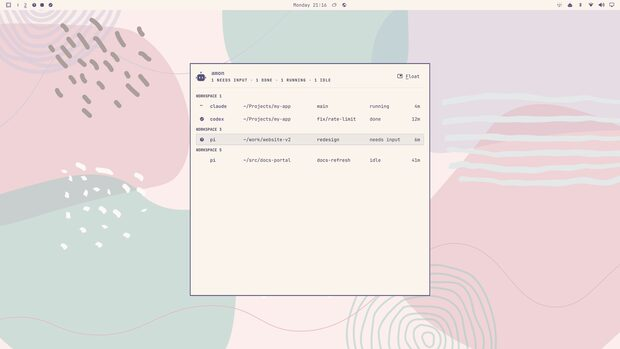
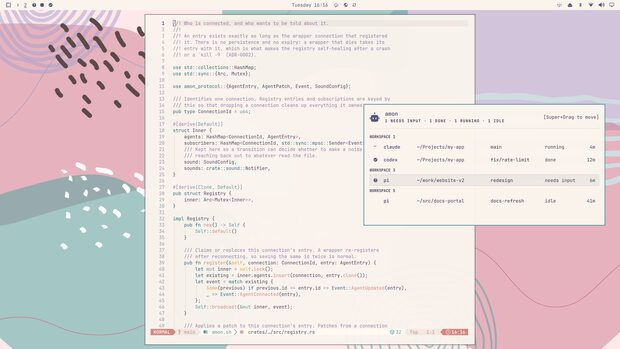
Float the panel through six more themes
rose pine, kanagawa, matte black, osaka jade, ristretto, and solitude
now show the floating composition, labeled theme: <name>; the rest of
the parade keeps the classic centered panel.

diff --git a/website/index.html b/website/index.html
@@ -1075,50 +1075,50 @@ Set up amon <span class="t-o">- space toggles, enter applies</span>
                alt="The agent panel on the nord theme">
           <span class="shot-name">nord</span>
         </button></li>
-        <li><button class="shot" type="button" data-full="shots/rose-pine.jpg" data-theme="rose pine">
+        <li><button class="shot" type="button" data-full="shots/rose-pine.jpg" data-theme="theme: rose pine">
           <img src="shots/rose-pine-thumb.jpg" width="620" height="349" loading="lazy" decoding="async"
-               alt="The agent panel on the rose pine theme">
-          <span class="shot-name">rose pine</span>
+               alt="The agent panel floating over an editor on the rose pine theme">
+          <span class="shot-name">theme: rose pine</span>
         </button></li>
         <li><button class="shot" type="button" data-full="shots/everforest.jpg" data-theme="everforest">
           <img src="shots/everforest-thumb.jpg" width="620" height="349" loading="lazy" decoding="async"
                alt="The agent panel on the everforest theme">
           <span class="shot-name">everforest</span>
         </button></li>
-        <li><button class="shot" type="button" data-full="shots/kanagawa.jpg" data-theme="kanagawa">
+        <li><button class="shot" type="button" data-full="shots/kanagawa.jpg" data-theme="theme: kanagawa">
           <img src="shots/kanagawa-thumb.jpg" width="620" height="349" loading="lazy" decoding="async"
-               alt="The agent panel on the kanagawa theme">
-          <span class="shot-name">kanagawa</span>
+               alt="The agent panel floating over an editor on the kanagawa theme">
+          <span class="shot-name">theme: kanagawa</span>
         </button></li>
-        <li><button class="shot" type="button" data-full="shots/matte-black.jpg" data-theme="matte black">
+        <li><button class="shot" type="button" data-full="shots/matte-black.jpg" data-theme="theme: matte black">
           <img src="shots/matte-black-thumb.jpg" width="620" height="349" loading="lazy" decoding="async"
-               alt="The agent panel on the matte black theme">
-          <span class="shot-name">matte black</span>
+               alt="The agent panel floating over an editor on the matte black theme">
+          <span class="shot-name">theme: matte black</span>
         </button></li>
         <li><button class="shot" type="button" data-full="shots/catppuccin-latte.jpg" data-theme="catppuccin latte">
           <img src="shots/catppuccin-latte-thumb.jpg" width="620" height="349" loading="lazy" decoding="async"
                alt="The agent panel on the catppuccin latte theme">
           <span class="shot-name">catppuccin latte</span>
         </button></li>
-        <li><button class="shot" type="button" data-full="shots/osaka-jade.jpg" data-theme="osaka jade">
+        <li><button class="shot" type="button" data-full="shots/osaka-jade.jpg" data-theme="theme: osaka jade">
           <img src="shots/osaka-jade-thumb.jpg" width="620" height="349" loading="lazy" decoding="async"
-               alt="The agent panel on the osaka jade theme">
-          <span class="shot-name">osaka jade</span>
+               alt="The agent panel floating over an editor on the osaka jade theme">
+          <span class="shot-name">theme: osaka jade</span>
         </button></li>
-        <li><button class="shot" type="button" data-full="shots/ristretto.jpg" data-theme="ristretto">
+        <li><button class="shot" type="button" data-full="shots/ristretto.jpg" data-theme="theme: ristretto">
           <img src="shots/ristretto-thumb.jpg" width="620" height="349" loading="lazy" decoding="async"
-               alt="The agent panel on the ristretto theme">
-          <span class="shot-name">ristretto</span>
+               alt="The agent panel floating over an editor on the ristretto theme">
+          <span class="shot-name">theme: ristretto</span>
         </button></li>
         <li><button class="shot" type="button" data-full="shots/miasma.jpg" data-theme="miasma">
           <img src="shots/miasma-thumb.jpg" width="620" height="349" loading="lazy" decoding="async"
                alt="The agent panel on the miasma theme">
           <span class="shot-name">miasma</span>
         </button></li>
-        <li><button class="shot" type="button" data-full="shots/solitude.jpg" data-theme="solitude">
+        <li><button class="shot" type="button" data-full="shots/solitude.jpg" data-theme="theme: solitude">
           <img src="shots/solitude-thumb.jpg" width="620" height="349" loading="lazy" decoding="async"
-               alt="The agent panel on the solitude theme">
-          <span class="shot-name">solitude</span>
+               alt="The agent panel floating over an editor on the solitude theme">
+          <span class="shot-name">theme: solitude</span>
         </button></li>
         <li><button class="shot" type="button" data-full="shots/last-horizon.jpg" data-theme="last horizon">
           <img src="shots/last-horizon-thumb.jpg" width="620" height="349" loading="lazy" decoding="async"
